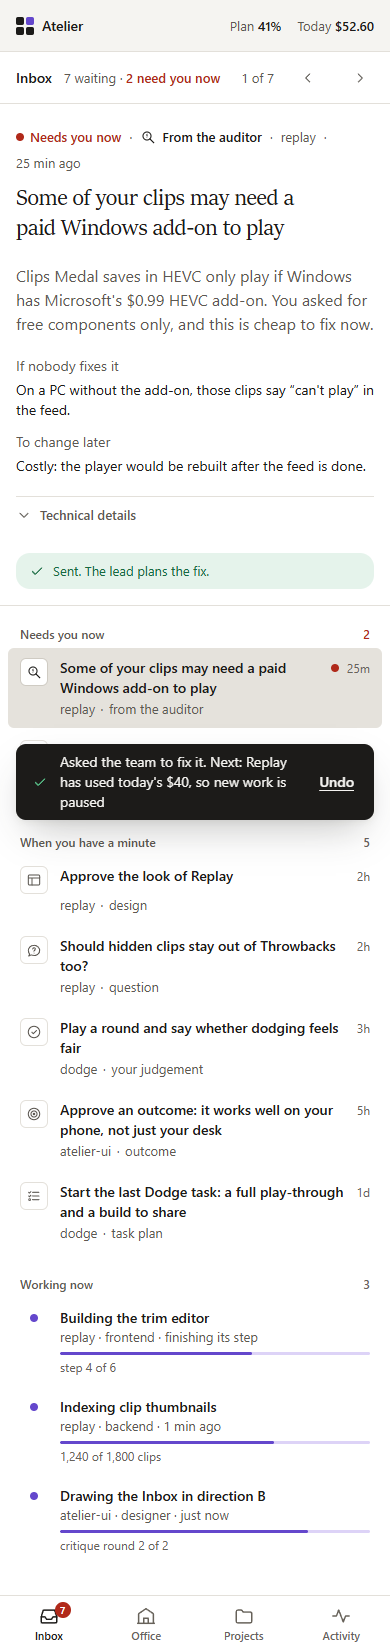
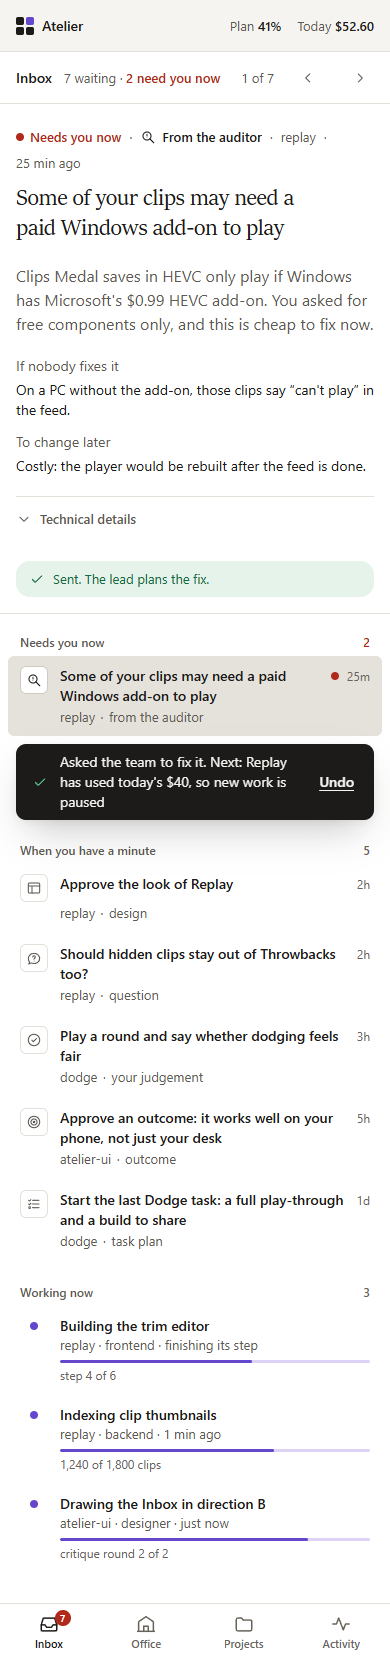
Design D2: critique round 5 - 44 px disclosure on the phone, re-rendered final matrix
a11y.mjs at 390 in the default view found the 'Technical details' summary at
36 px. It now uses --size-control-lg on the phone, like the other links.

diff --git a/atelier/design/components.css b/atelier/design/components.css
@@ -376,7 +376,7 @@ textarea.input { min-height: 64px; display: block; }
   .queue { padding: var(--space-5) var(--space-2) var(--space-8); }
   .qitem, .agent, .ledger-row { min-height: var(--size-control-lg); }
   .links { row-gap: 0; }
-  .links a { min-height: var(--size-control-lg); }
+  .links a, .details summary { min-height: var(--size-control-lg); }
   .facts { grid-template-columns: 1fr; gap: var(--space-1); }
   .facts dd + dt { margin-top: var(--space-2); }
 }

diff --git a/atelier/DESIGN.md b/atelier/DESIGN.md
@@ -259,6 +259,14 @@ Before: the reviewer's shots `runs/68h6/review-evidence/p1-390-dark-design-viewp
 - **Changed**: phone dock `bottom: calc(var(--size-tabbar) + env(safe-area-inset-bottom) + var(--space-2))`. The sent dock has no Undo; the toast's Undo (6 s) is the only one and also removes the ledger line. Secondary actions have their own sent line, toast and ledger line. Project counts come from the waiting items; the spend line is one figure and mentions a limit only while a budget item waits; the zero column lists what you decided, newest first. J/K work with Caps Lock. Component sheet: the design gate's Approve stays enabled and validates on click (as the screen does), and the neutral toast no longer refers to the removed "Later".
 - **Result** (`runs/68h6/tools/iter4.mjs`, real viewport, no `?full`): design, proof and question at 390 in light and dark, at the top and at the end of the item: 0 dock controls covered, every dock control is the top element at its centre. Decide-all journey: sidebar counts `[]`, one spend figure, "Every project within its budget", ledger 8 (7 just decided + 1 earlier). Toast Undo restores the item and its count, and it stays restored. 0 page errors.
 
+### Round 5 (re-measure after round 4)
+
+Before: `review/round-5/before-inbox-390-light.png`. After: `review/round-5/after-inbox-390-light.png`.
+
+- **Found (accessibility-review, measured with a11y.mjs at 390 in the default view)**: the "Technical details" disclosure in the auditor's finding was 358×36, under the 44 px tap target. Earlier rounds measured each `open=` state but read the default view's log only for unnamed controls.
+- **Changed**: on the phone, `.details summary` gets `min-height: var(--size-control-lg)` (44 px), like `.links a`. Desktop keeps `--size-control` (36 px), which is a pointer target.
+- **Result**: a11y.mjs at 390, default view and design, proof, question, budget and zero, light and dark: 0 targets under 44 px, 0 unnamed controls. The final matrix in `review/final/` is re-rendered from this HTML (66 Inbox + 4 component shots, no sideways scroll, no console errors).
+
 ## Open questions
 
 These are for the lead. They touch what the server sends, or they add scope.
